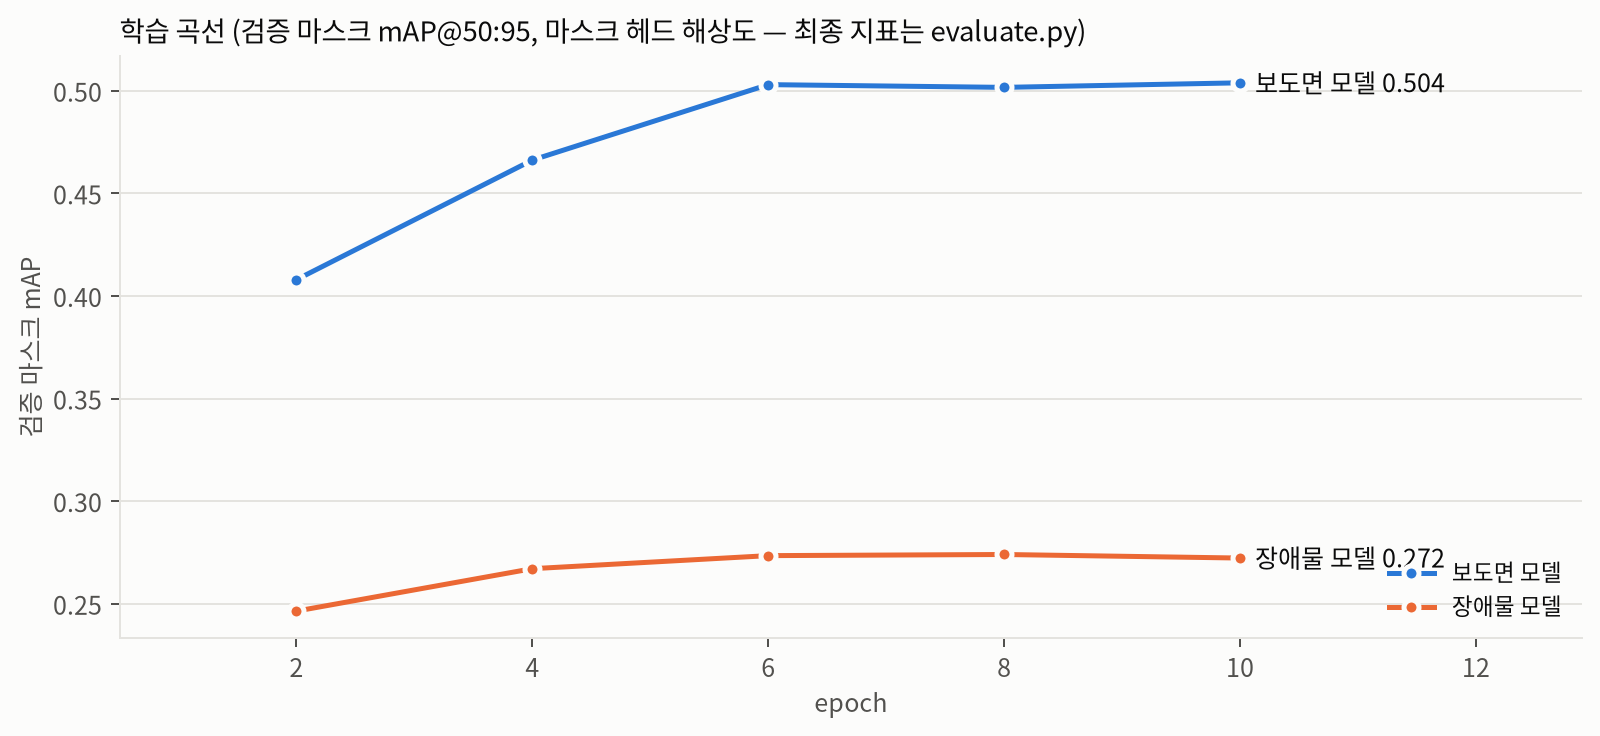
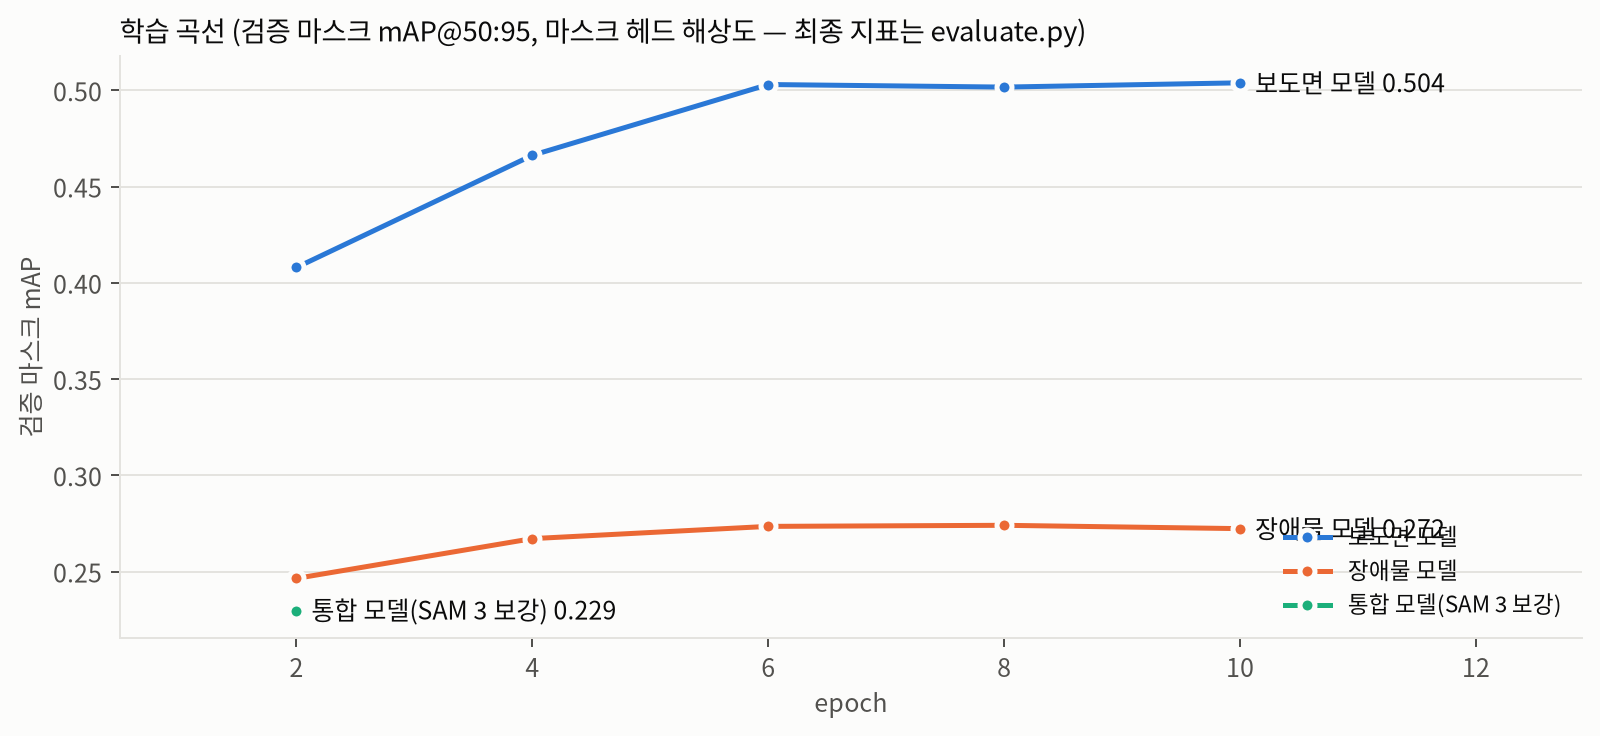
README 최신화: '차도로 밀려나는 구간'(211 링크·11.2 km) 지도·갤러리를 맨 앞에, 웹앱 스크린샷 표, 지난 명동 단독 그림 제거

diff --git a/scripts/make_figures.py b/scripts/make_figures.py
@@ -193,6 +193,103 @@ def fig_training(out: Path) -> None:
     plt.close(fig)
 
 
+def push_frames(session: Path):
+    """'차도로 밀려나는' 프레임: 보도 소멸(바닥은 보임) · 보차 혼용 · 비율<0.3. → (frame→유형), 링크별 비중."""
+    import csv
+    from collections import defaultdict
+
+    rs = {r["frame"]: r for r in map(json.loads, open(session / "frame_results.jsonl", encoding="utf-8"))}
+    kind = {}
+    for f, r in rs.items():
+        t = r.get("tags", [])
+        if "noview" in t:
+            continue
+        if "vanish" in t:
+            kind[f] = "보도 없음 → 차도·골목으로"
+        elif "shared" in t and r["ratio"] < 0.6:
+            kind[f] = "차량이 보행 공간 점유"
+        elif r["sidewalk_present"] and r["ratio"] < 0.3:
+            kind[f] = "장애물로 막혀 차도로"
+    by = defaultdict(list)
+    with open(session / "frames_linked.csv", encoding="utf-8") as fh:
+        for r in csv.DictReader(fh):
+            if r["link_id"] and r["frame"] in rs and "noview" not in rs[r["frame"]].get("tags", []):
+                by[r["link_id"]].append(r["frame"])
+    frac = {l: sum(f in kind for f in fs) / len(fs) for l, fs in by.items() if len(fs) >= 3}
+    return kind, by, frac, rs
+
+
+def fig_push(session: Path, links: Path, out: Path, min_frac: float = 0.3) -> dict:
+    """RoadPush 핵심 그림: 보행자가 차도로 밀려나는 링크 지도 + 대표 프레임 갤러리."""
+    import geopandas as gpd
+    import numpy as np
+    from PIL import Image
+
+    import sys
+    sys.path.insert(0, str(ROOT / "scripts"))
+    from build_static import nearby_names
+
+    kind, by, frac, rs = push_frames(session)
+    g = gpd.read_file(session / "links_scored.geojson")
+    fill = nearby_names(json.loads((session / "links_scored.geojson").read_text()), links)
+    g["name"] = [n if n else fill.get(l, "") for n, l in zip(g["name"].fillna(""), g.link_id)]
+    g["push"] = g.link_id.map(frac).fillna(0)
+    push = g[g.push >= min_frac].sort_values(["push", "score"], ascending=False)
+    gm, base = g.to_crs(5179), gpd.read_file(links).to_crs(5179)
+    b = gm.total_bounds
+    fig, ax = plt.subplots(figsize=(10, 8))
+    base.cx[b[0] - 150:b[2] + 150, b[1] - 150:b[3] + 150].plot(ax=ax, color="#d9d7cf", linewidth=0.6)
+    gm[gm.push < min_frac].plot(ax=ax, color="#9c9a92", linewidth=2.2, label="측정 링크 (밀려남 적음)")
+    gm[gm.push >= min_frac].plot(ax=ax, color=STATUS["위험"], linewidth=4.5,
+                                 label=f"차도로 밀려나는 링크 ({len(push)}개 · {push.length_m.sum() / 1000:.1f} km)")
+    ax.set_axis_off()
+    ax.set_xlim(b[0] - 150, b[2] + 150); ax.set_ylim(b[1] - 150, b[3] + 150)
+    ax.legend(loc="upper left", bbox_to_anchor=(1.0, 1.0), frameon=False, fontsize=11)
+    fig.suptitle("걷는 사람이 차도로 밀려나는 구간 — 서울 도심(중구·종로)", x=0.02, ha="left", fontsize=14)
+    fig.text(0.02, 0.02, "링크 프레임 중 30% 이상이 보도 소멸·차량 점유·심한 협소(비율<0.3) · 지도 © OpenStreetMap", color=INK2, fontsize=8)
+    fig.savefig(out / "fig_push_map.png", dpi=180, bbox_inches="tight")
+    plt.close(fig)
+
+    def good_view(f) -> bool:
+        """대표 사진 조건: 바닥(골목·차도·보도)이 보이고, 장애물(빨강 오버레이)이 화면을 덮지 않음."""
+        c = rs[f].get("counts", {})
+        if not any(c.get(k, 0) for k in ("alley", "roadway", "sidewalk")):
+            return False
+        a = np.asarray(Image.open(session / "overlay" / f).convert("RGB")).astype(int)
+        red = ((a[..., 0] > 160) & (a[..., 0] - a[..., 1] > 60) & (a[..., 0] - a[..., 2] > 25)).mean()   # 반투명 섞인 분홍 포함
+        return red < 0.25   # 유리창 등 어두운 부분은 빨강으로 안 잡혀 보수적으로
+
+    # 갤러리: 유형별로 고르게, 서로 다른 도로명
+    picks, seen = [], set()
+    order = ["보도 없음 → 차도·골목으로", "차량이 보행 공간 점유", "장애물로 막혀 차도로"]
+    for want in order * 4:
+        for _, L in push.iterrows():
+            nm = L["name"] or L.link_id
+            if nm in seen:
+                continue
+            fs = [f for f in by[L.link_id] if kind.get(f) == want and (session / "overlay" / f).exists()
+                  and good_view(f)]
+            if fs:
+                f = sorted(fs, key=lambda x: rs[x]["ratio"])[len(fs) // 2]
+                picks.append((L, f, want)); seen.add(nm)
+                break
+        if len(picks) >= 8:
+            break
+    if picks:
+        fig, axes = plt.subplots(2, 4, figsize=(20, 8.6))
+        for ax, (L, f, want) in zip(axes.ravel(), picks):
+            ax.imshow(Image.open(session / "overlay" / f))
+            ax.set_title(f"{L['name'] or '이름 없음'} · {want}\n링크 점수 {L.score:.0f} ({L.grade}) · 밀려남 {L.push:.0%}",
+                         loc="left", fontsize=11)
+            ax.set_axis_off()
+        for ax in axes.ravel()[len(picks):]:
+            ax.set_axis_off()
+        fig.tight_layout()
+        fig.savefig(out / "fig_push_gallery.png", dpi=150, bbox_inches="tight")
+        plt.close(fig)
+    return {"links": int(len(push)), "km": round(float(push.length_m.sum() / 1000), 1), "measured": int(len(g))}
+
+
 def main(argv: list[str] | None = None) -> None:
     ap = argparse.ArgumentParser(description=__doc__, formatter_class=argparse.RawDescriptionHelpFormatter)
     ap.add_argument("--session", type=Path, default=ROOT / "outputs/mly_junggu_2025")
@@ -207,6 +304,9 @@ def main(argv: list[str] | None = None) -> None:
     if (args.session / "links_scored.geojson").exists():
         fig_map(args.session, args.links, args.out)
         fig_frames(args.session, args.out)
+    dt = ROOT / "outputs/mly_downtown"
+    if (dt / "links_scored.geojson").exists():
+        print("push", fig_push(dt, ROOT / "data/links/downtown.geojson", args.out))
     print("→", sorted(p.name for p in args.out.glob("*.png")))
 
 

diff --git a/README.md b/README.md
@@ -3,31 +3,38 @@
 **걷는 사람이 차도로 밀려나는(push) 구간을, 거리 사진만으로 찾아 도로 구간(링크)마다 점수로 보여 주는 AI.**
 2026 AI 라이프 솔루션 챌린지(산업통상부·KEIT) 출품작 · 아이디어 챌린지 후보작 *RoadPush* 구현.
 
-- 1차 사용자: 지자체·도로관리기관 보도 담당자 — 어디부터 단속·정비할지 우선순위
-- 대상 지역: 서울 도심(중구·종로) **466개 링크 · 28.4 km** — 공개 거리 사진(Mapillary, CC BY-SA) 7,559장(360° 변환 포함)의 실제 촬영 위치
 - **웹앱(테스트 URL)**: https://huggingface.co/spaces/YunSangNam/roadpush — 서버 없는 정적 웹앱, 사진 분석은 브라우저 안에서 실행 *(제출 전까지 비공개)*
+- **대상**: 서울 도심(중구·종로) — 공개 거리 사진(Mapillary, CC BY-SA) 7,559장(360° 변환 포함)의 실제 촬영 위치, **466개 링크 · 28.4 km 측정**
+- **사용자**: 지자체·도로관리기관 보도 담당자 — 어디부터 단속·정비할지 우선순위
 
 진행 기록 [PROGRESS.md](PROGRESS.md) · 결과 수치 [docs/results.md](docs/results.md) · 계획 [PLAN.md](PLAN.md)
 
 ---
 
-## 한눈에 보기
+## 걷는 사람이 차도로 밀려나는 구간
 
-**명동 실사진 분석** — 보도(초록)·차도(회색)·골목(갈색)·장애물(빨강)·보행자(연보라, 장애물로 세지 않음), 오른쪽에 유효보행폭 비율
+측정한 466개 링크 중 **211개 · 11.2 km**에서, 링크를 지나는 프레임의 30% 이상이 아래 셋 중 하나였다.
+**보도 없음**(차도·골목으로 합류) · **차량이 보행 공간 점유**(보차 혼용) · **장애물로 막혀 차도로**(유효보행폭 비율 < 0.3).
+
+![차도로 밀려나는 링크](docs/figures/fig_push_map.png)
+
+대표 장면 — 초록 보도 · 갈색 골목(이면도로) · 회색 차도 · 빨강 장애물 · 연보라 보행자(장애물로 세지 않음)
+
+![차도로 밀려나는 장면](docs/figures/fig_push_gallery.png)
+
+## 웹앱
+
+| 지도 (회색 = 사진이 없어 측정 못 한 길) | 링크 상세 (LLM 점검 메모·비율·대표 프레임) |
+|---|---|
+| ![지도](docs/media/web_map.jpg) | ![상세](docs/media/web_detail.jpg) |
+
+**사진 분석** — 사진을 올리면 브라우저 안에서 분할·계산(사진은 밖으로 나가지 않음)
+
+![사진 분석](docs/media/web_upload.jpg)
+
+**명동 걷기 미리보기**
 
 ![명동 미리보기](docs/media/preview_mly_junggu_2025.gif)
-
-**웹앱 — 지도**: 링크마다 위험/주의/안전, 회색은 사진이 없어 측정하지 못한 길. 오른쪽은 조치 우선순위
-
-![웹앱 지도](docs/media/web_map.jpg)
-
-**웹앱 — 링크 상세**: 점수·단절 유형, 멀티모달 LLM 점검 메모(원인·권고), 촬영 순서별 비율, 대표 프레임
-
-![웹앱 링크 상세](docs/media/web_detail.jpg)
-
-**웹앱 — 사진 분석**: 사진을 올리면 AI가 브라우저 안에서 분할·계산(사진은 밖으로 나가지 않음)
-
-![웹앱 사진 분석](docs/media/web_upload.jpg)
 
 > 그림은 학습·분석이 진행되면 자동으로 다시 그려져 약 90분마다 푸시된다(`scripts/autopush.sh`).
 
@@ -38,9 +45,9 @@
 ![파이프라인](docs/figures/fig_pipeline.png)
 
 1. **분할** — RF-DETR-Seg(Apache 2.0) 두 개가 보도면 9종(보도·점자블록·차도·골목·자전거도로·계단·공사·맨홀·가로수틀)과 장애물 11종(차량·이륜차·볼라드·입간판·노점 등)을 픽셀 단위로 나눈다.
-2. **유효보행폭 비율** — 화면 하단 가로줄마다 "실제로 지나갈 수 있는 폭 ÷ 원래 보도 폭"을 재고 가장 좁은 곳(병목)을 프레임 값으로. 원근 때문에 m 대신 비율(제안자 답변). 보행자는 조치 대상이 아니라 제외.
-3. **링크 위험도** — GPS로 OpenStreetMap 보행 링크에 붙여 0~100점·등급, 단절 유형(보도 소멸·폭 협소·공사·단차·**보차 혼용**), 휠체어 기준(폭 0.7·단차 가중).
-4. **점검 메모** — Qwen3-VL-8B가 측정값과 대표 프레임을 근거로 원인·권고를 작성. 닫힌 질문으로 분할 결과와 교차검증한 사실만 사용(VLM 단독은 환각률이 높음).
+2. **유효보행폭 비율** — 화면 하단 가로줄마다 "실제로 지나갈 수 있는 폭 ÷ 원래 보도 폭"을 재고 가장 좁은 곳(병목)을 프레임 값으로. 원근 때문에 m 대신 비율(제안자 답변). 보행자는 조치 대상이 아니라 제외, 바닥이 안 보이는 사진은 측정 불가로 제외.
+3. **링크 위험도** — GPS로 OpenStreetMap 보행 링크에 붙여 0~100점·등급, 단절 유형(보도 소멸·폭 협소·공사·단차·보차 혼용), 휠체어 기준(폭 0.7·단차 가중). 보도 위 노점은 폭에선 장애물, 조치는 단속 대신 거리가게 관리로 구분.
+4. **점검 메모** — Qwen3-VL-8B가 측정값과 대표 프레임을 근거로 원인·권고를 작성. 닫힌 질문으로 분할 결과와 교차검증한 사실만 사용(VLM 단독은 차량 오경보 29%).
 
 ## 결과 (AI Hub 검증셋, 촬영 폴더 단위 분리)
 
@@ -54,7 +61,7 @@
 ![성능 비교](docs/figures/fig_compare.png)
 ![학습 곡선](docs/figures/fig_training.png)
 
-<img src="docs/figures/fig_map.png" width="520"> <img src="docs/figures/fig_frames.png" width="100%">
+진행 중: SAM 3 의사 라벨로 결측을 채운 통합 모델, 희소 클래스(계단·바리케이드 등) 보강 모델 — 대기열에서 자동 학습·평가 후 더 나은 조합으로 웹앱 재배포.
 
 ## 코드
 
@@ -64,10 +71,10 @@
 | `convert_aihub_to_coco.py` · `merge_coco.py` | AI Hub XML → COCO(폴더 단위 분할, 희소 클래스 선택), 데이터 병합·SAM 3 결측 보강 |
 | `train.py` · `infer.py` · `evaluate.py` | RF-DETR-Seg 학습 / 다중 모델 추론 / IoU·비율 MAE·소멸 F1 |
 | `width_ratio.py` · `scoring.py` | 유효보행폭 비율(병목), 링크 점수·단절 유형·공간 유형·휠체어 프로필 |
-| `mapillary.py` · `links.py` · `aggregate.py` · `merge_runs.py` | 공개 보행 사진 수집(360° 시점 변환 포함), OSM 링크·스냅, 링크 집계 |
+| `mapillary.py` · `links.py` · `aggregate.py` · `merge_runs.py` | 공개 보행 사진 수집(360° → 진행 방향 시점 변환), OSM 링크·스냅, 링크 집계 |
 | `vlm.py` · `sam3_label.py` · `gdino_label.py` | 멀티모달 LLM 확인·메모·환각 측정, zero-shot teacher |
 | `web/` · `scripts/build_static.py` | 정적 웹앱(Leaflet + onnxruntime-web) |
-| `scripts/` | 다운로드·대기열·그림·성과보고서 PPT 자동 생성(`build_report.py`) |
+| `scripts/` | 다운로드·학습 대기열·그림·성과보고서 PPT 자동 생성(`build_report.py`) |
 
 ```bash
 E="env -u PYTHONPATH"                       # 외부 PYTHONPATH(ROS 등) 차단
@@ -78,7 +85,7 @@ $E python -m roadpush.convert_aihub_to_coco --xml-dir data/raw/aihub/extracted/s
 $E python -m roadpush.train --dataset data/coco/surface_v1 --run seg_m_surface_v1          # tmux 안에서
 $E python -m roadpush.mapillary --area downtown --out outputs/mly_downtown_all             # .mapillary_token
 bash scripts/redeploy_static.sh             # ONNX 내보내기 → 정적 사이트 → HF Space
-$E pytest                                   # 39 tests
+$E pytest                                   # 41 tests
 ```
 
 ## 출처·라이선스
